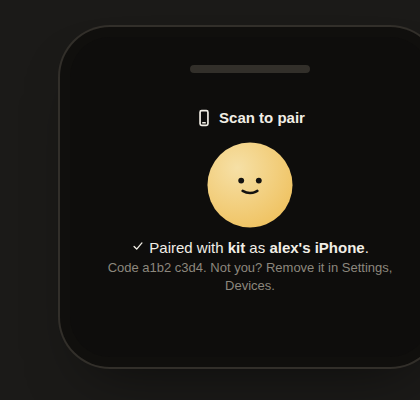
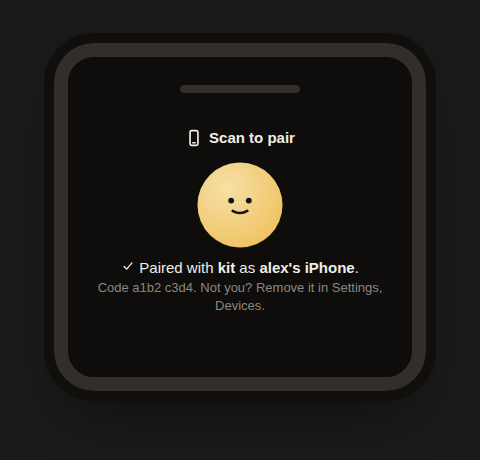
docs(readme): real host in the chat shots, full phone frame in wink-confirm
deck-chat.png/.dark.png: re-rendered with the sample world's usual
host-resolver mapping (alex-box.tail0000.ts.net), matching the address
bar every other docs shot uses instead of testbox's loopback.

wink-confirm.png: fixed the phone bezel clipping on one edge (a
box-shadow ring doesn't count toward flexbox centering); now a real
border+outline with even margin on every side. Left the avatar without
a code ring, since pair-avatar.js's renderPersonAvatar deliberately
never draws one on the done screen (its own comment: "not the
Vyre-code ring, the ring's job ended at pairing").

Changed region(s): [[0.0929, 0.06, 0.9286, 0.87], [0.2476, 0.9, 0.8667, 0.93], [0.3714, 0.15, 0.7429, 0.21]]

diff --git a/docs/work/readme-011.md b/docs/work/readme-011.md
@@ -182,6 +182,26 @@ removed after; confirmed no process or port left with `ps`/`lsof`) and the same
 headless Chrome defaults to light, which is why round 4's shot came out "paper" despite no
 `data-theme` override - not a bug, just an unset media emulation on my part).
 
+## Round 6: host, bezel margin, and the ring question (team-lead, after CLEARED 760f1a11)
+Two small fixes, both re-rendered on testbox, throwaway world torn down after (confirmed no
+leftover process/port both times):
+- deck-chat.png/.dark.png: re-rendered with `--host-resolver-rules=MAP alex-box.tail0000.ts.net
+  127.0.0.1:<port>` (the same trick `scripts/docs-shots` itself uses for its own HOST constant),
+  so the address bar now reads `alex-box.tail0000.ts.net` like the other docs shots, not
+  `127.0.0.1:8935`. Same thread, same avatars, same project tiles.
+- wink-confirm.png: the bezel's right edge was flush against the canvas (flexbox centered the
+  360px box correctly, but its box-shadow rings don't count toward centering math, so they
+  clipped on whichever side had less rounding slack). Fixed with an explicit border+outline
+  (real box-model width, not shadow) plus a fixed margin on every side and a wider canvas, so the
+  full frame shows with even space around it regardless of centering.
+- The ring question: checked `deck/js/pair-avatar.js`'s own doc comment before changing anything
+  - it says explicitly "just the face art, not the Vyre-code ring - the ring's job ended at
+  pairing", and its `renderPersonAvatar()` never takes a `ring` option (only `js/avatars.js`'s
+  lower-level `personAvatar({ring:true})` can draw one, for a different caller). So the bare face
+  in the done state is the real, current, deliberately-designed markup, not a gap in my render.
+  Left it as shipped rather than fabricating a ring that isn't actually part of this screen;
+  told team-lead so they can decide if that's still the right call.
+
 ## Next
 - Waiting on reviewer's second privacy/accuracy pass and team-lead's read before deploying
   vyre.run (their instruction: don't deploy until both).
